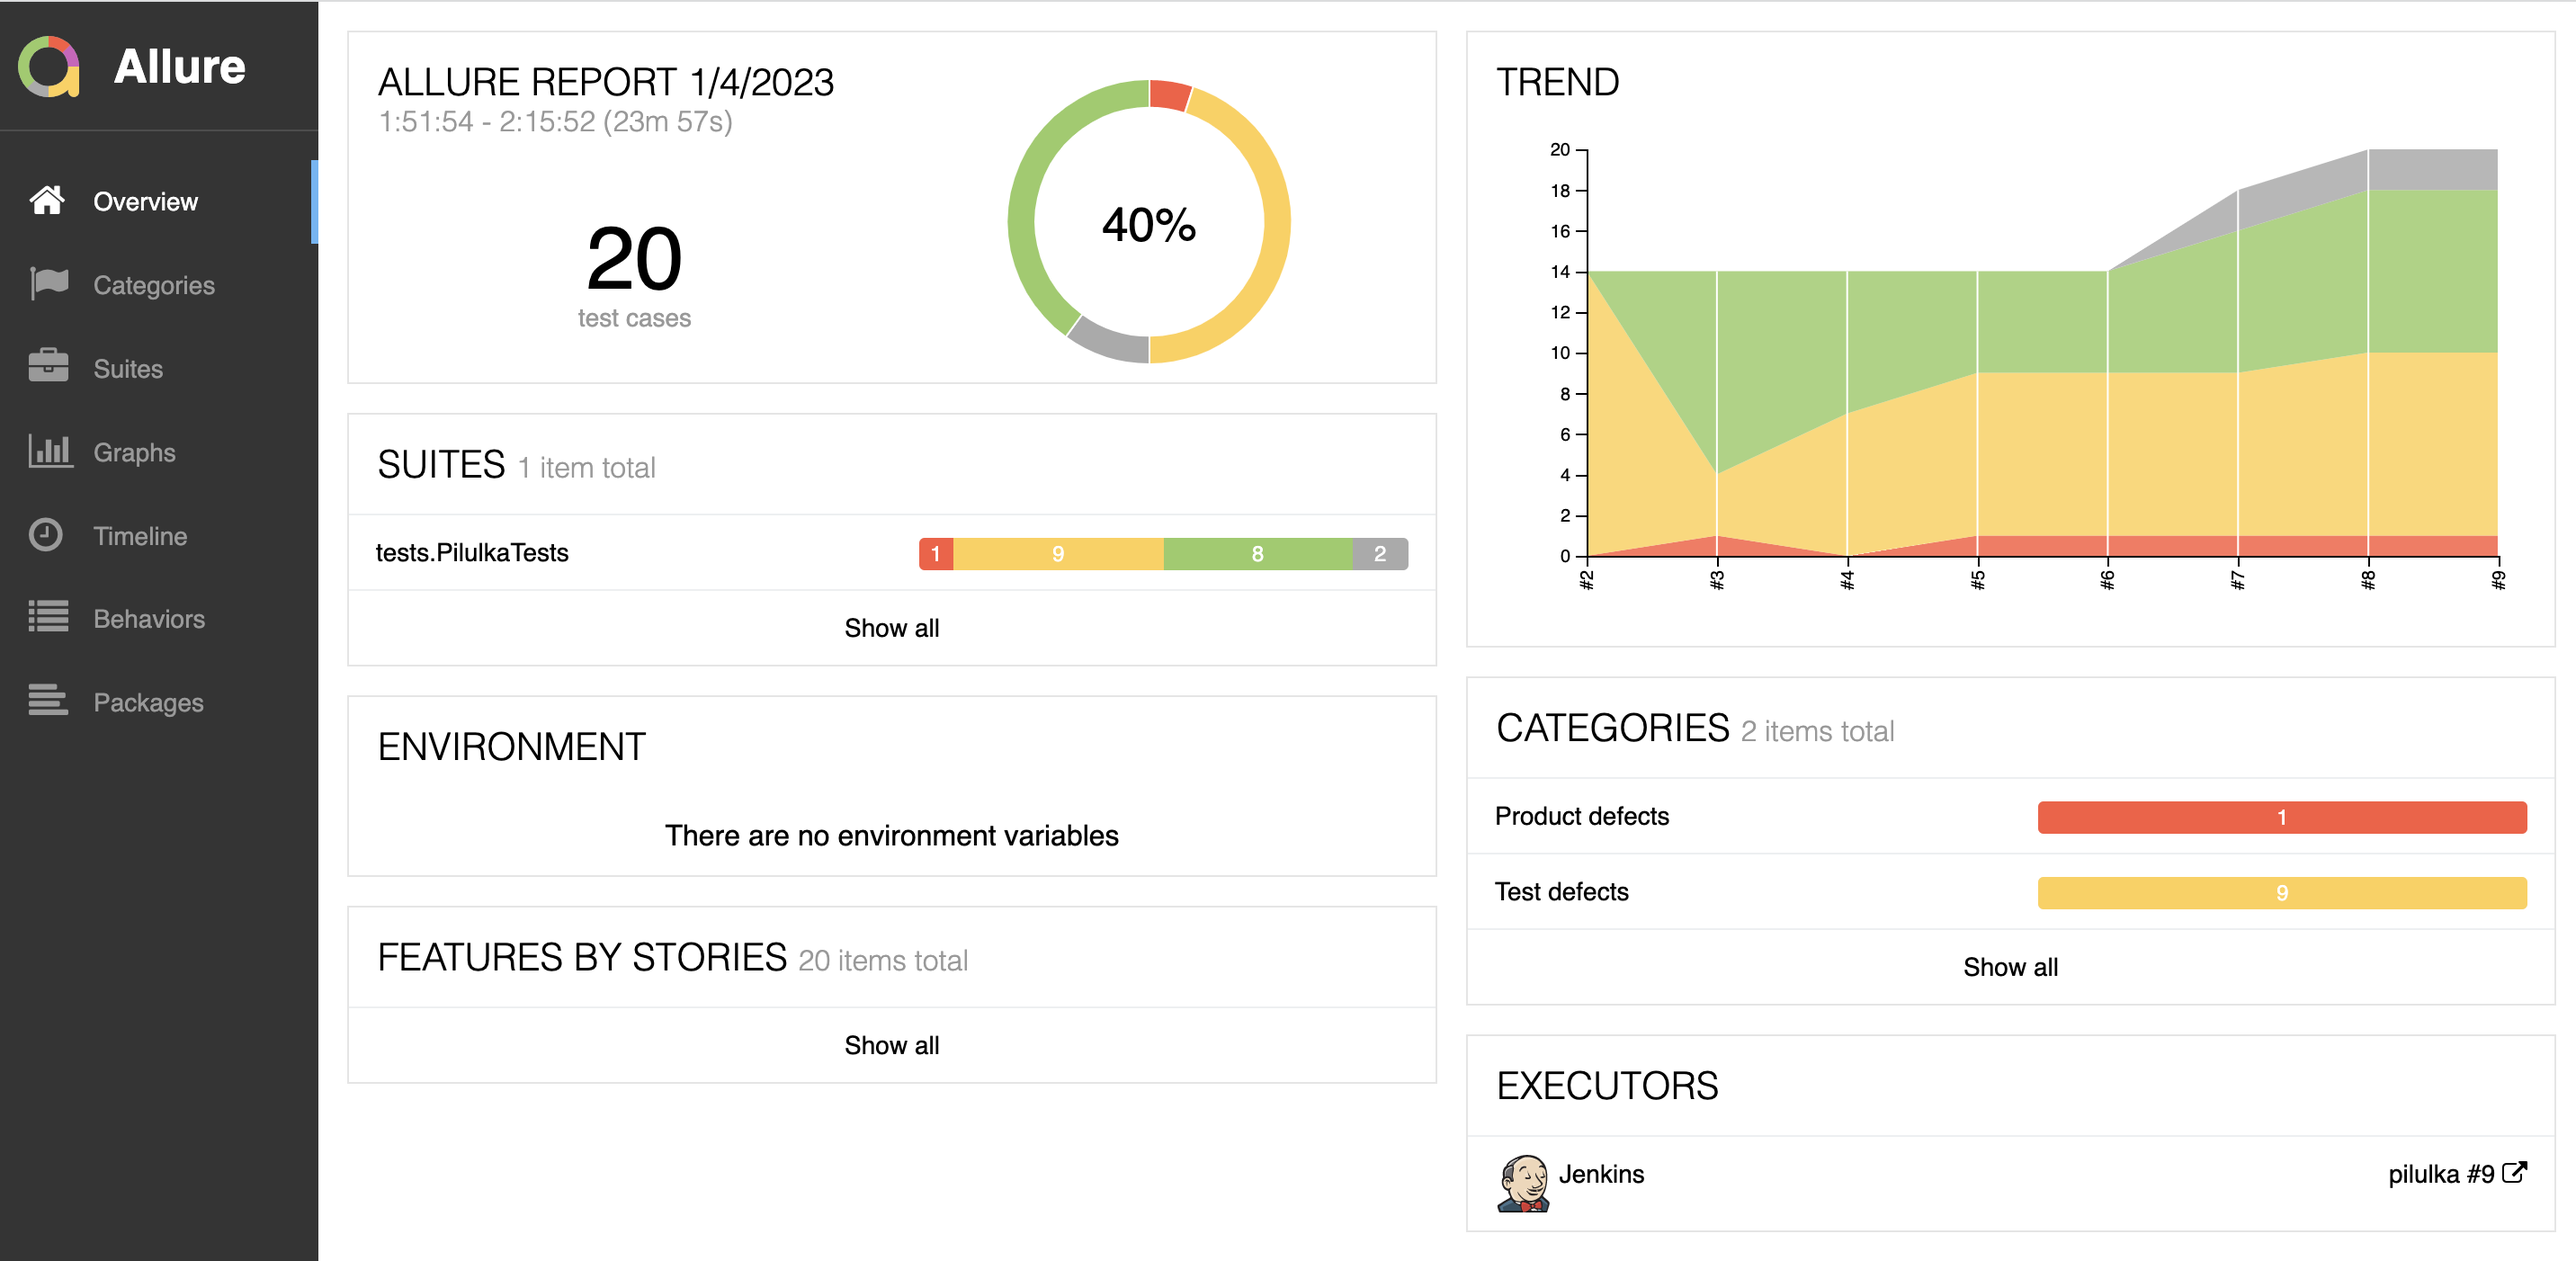
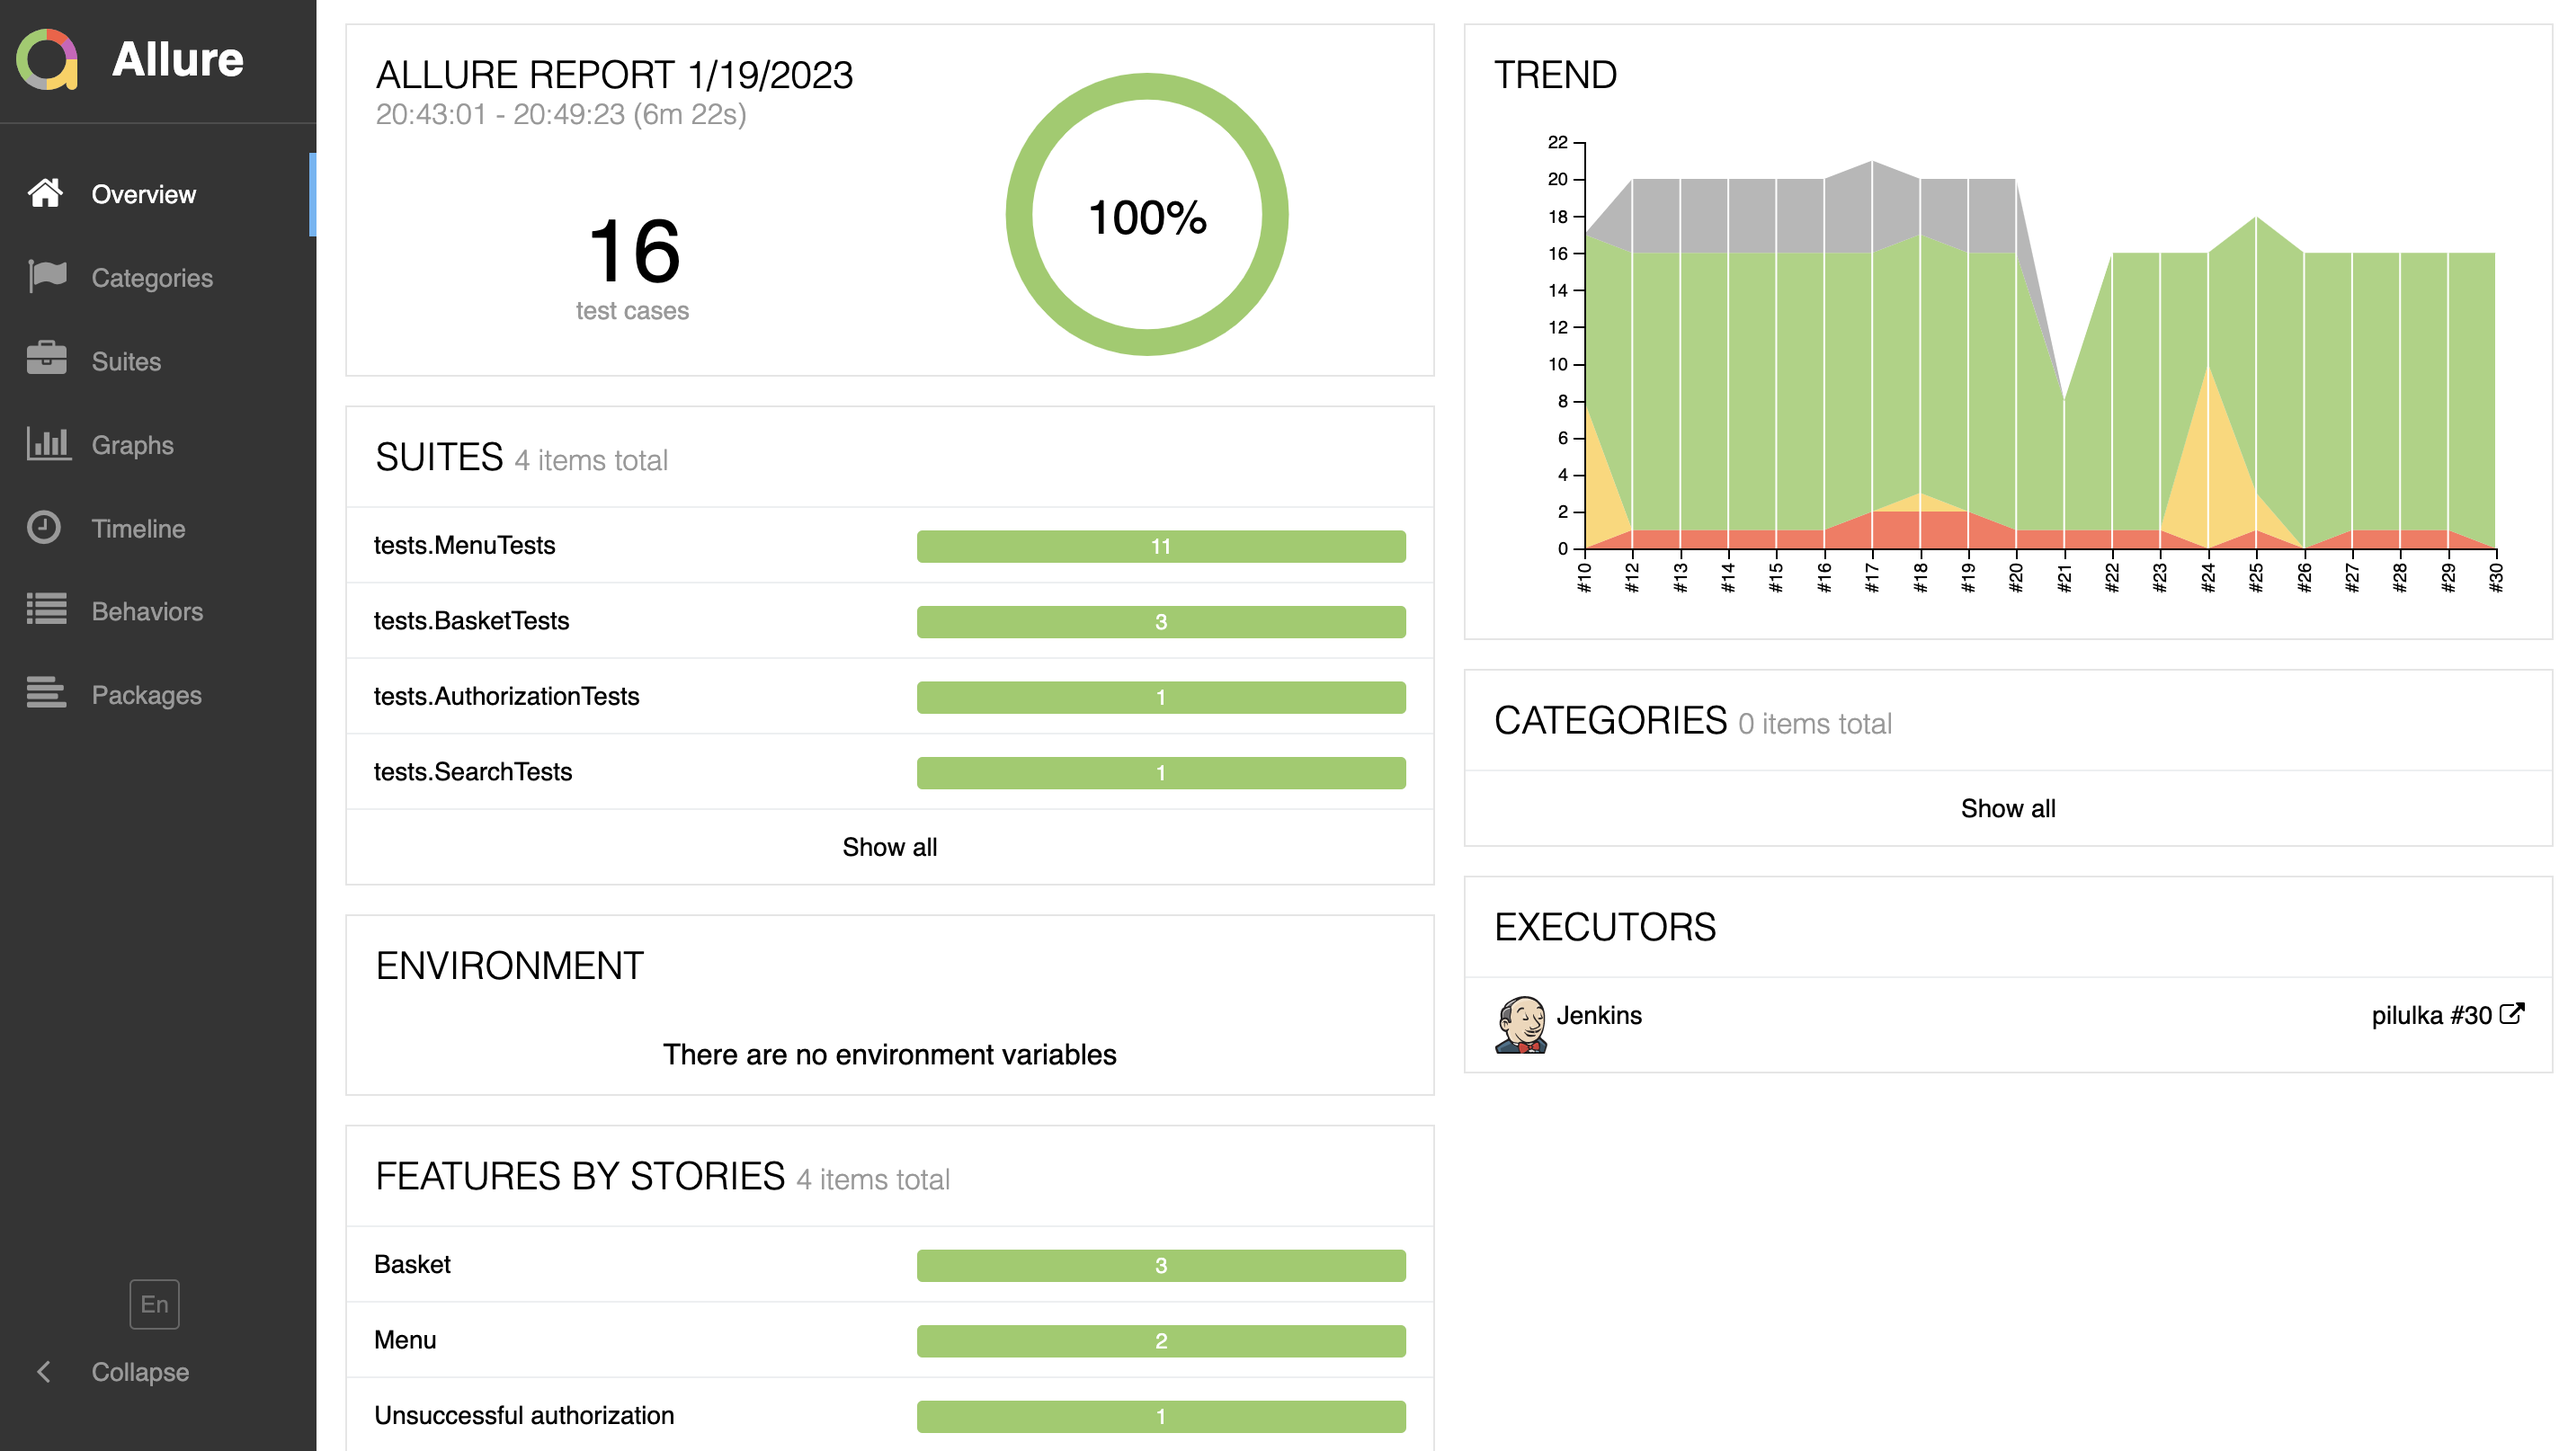
readme fix

diff --git a/src/test/java/pages/PilulkaMainPage.java b/src/test/java/pages/PilulkaMainPage.java
@@ -1,6 +1,5 @@
 package pages;
 
-import com.codeborne.selenide.Selenide;
 import com.codeborne.selenide.SelenideElement;
 import io.qameta.allure.Step;
 
@@ -31,7 +30,7 @@ public class PilulkaMainPage {
             searchInput = $("#js-search-form-q"),
             searchResult = $("#product-list"),
             subMenu = $$(".main-nav__category-title.js_level-2").findBy(text("Proteinové potraviny")),
-            chosenItem = $(byText("Nutrend Excelent Protein Bar 9 x 85 g")),
+            chosenItem = $(byText(addedItem)),
             addItem = $$("#js-add-to-cart-first").get(2),
             basket = $(".btn.btn-primary.btn-sm.px-3.d-inline-block.fwb"),
             basketId = $("#js-cart-open"),
@@ -132,10 +131,6 @@ public class PilulkaMainPage {
         step("Add item in the basket", () -> {
             addItem.click();
         });
-
-        if ($(".footer__cookie").isDisplayed()) {
-            $(byText("Odmítnout všechny cookies")).click();
-        }
 
         step("Go to the basket", () ->
                 basket.click());

diff --git a/README.md b/README.md
@@ -73,13 +73,13 @@ the *Allure Report* icon, clicking on which will open the page with the generate
   <img src="media/allure-report.png" alt="allure-report" width="800">
 </p>
 
-## <img width="4%" title="Allure Report" src="media/logo/Allure.svg"> Test results report in [Allure Report](https://jenkins.autotests.cloud/job/pilulka/10/allure/)
+## <img width="4%" title="Allure Report" src="media/logo/Allure.svg"> Test results report in [Allure Report](https://jenkins.autotests.cloud/job/pilulka/30/allure/)
 
 <p align="center">
   <img src="media/allure-report1.png" alt="allure-report1" width="900">
 </p>
 
-## <img width="4%" title="Allure TestOPS" src="media/logo/Allure_TO.svg"> Integration with [Allure TestOps](https://allure.autotests.cloud/launch/18009)
+## <img width="4%" title="Allure TestOPS" src="media/logo/Allure_TO.svg"> Integration with [Allure TestOps](https://allure.autotests.cloud/launch/18709)
 
 ## Main dashboard
 
@@ -87,10 +87,10 @@ the *Allure Report* icon, clicking on which will open the page with the generate
   <img src="media/dashboard.png" alt="dashboard" width="900">
 </p>
 
-## Test cases
+## Test results
 
 <p align="center">
-  <img src="media/testcase.png" alt="testcase" width="900">
+  <img src="media/testsresults.png" alt="testresults" width="900">
 </p>
 
 ## <img width="4%" title="Jira" src="media/logo/Jira.svg"> Integration with [Jira](https://jira.autotests.cloud/browse/HOMEWORK-490)
